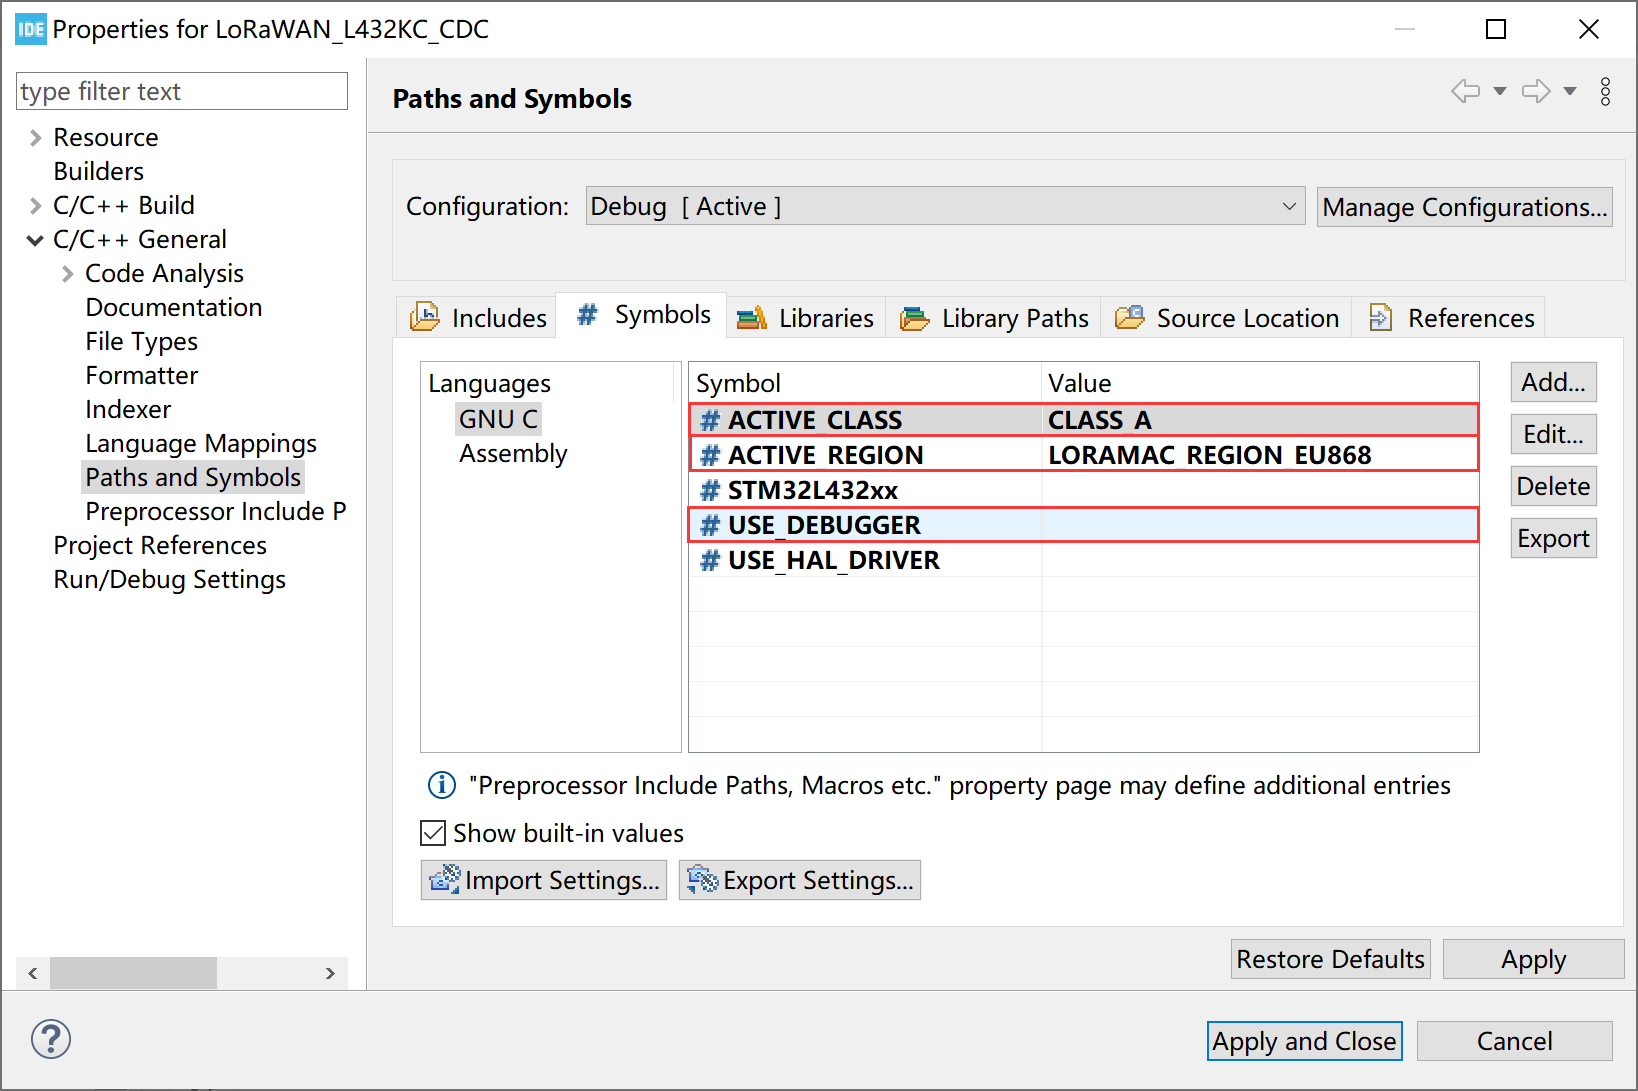
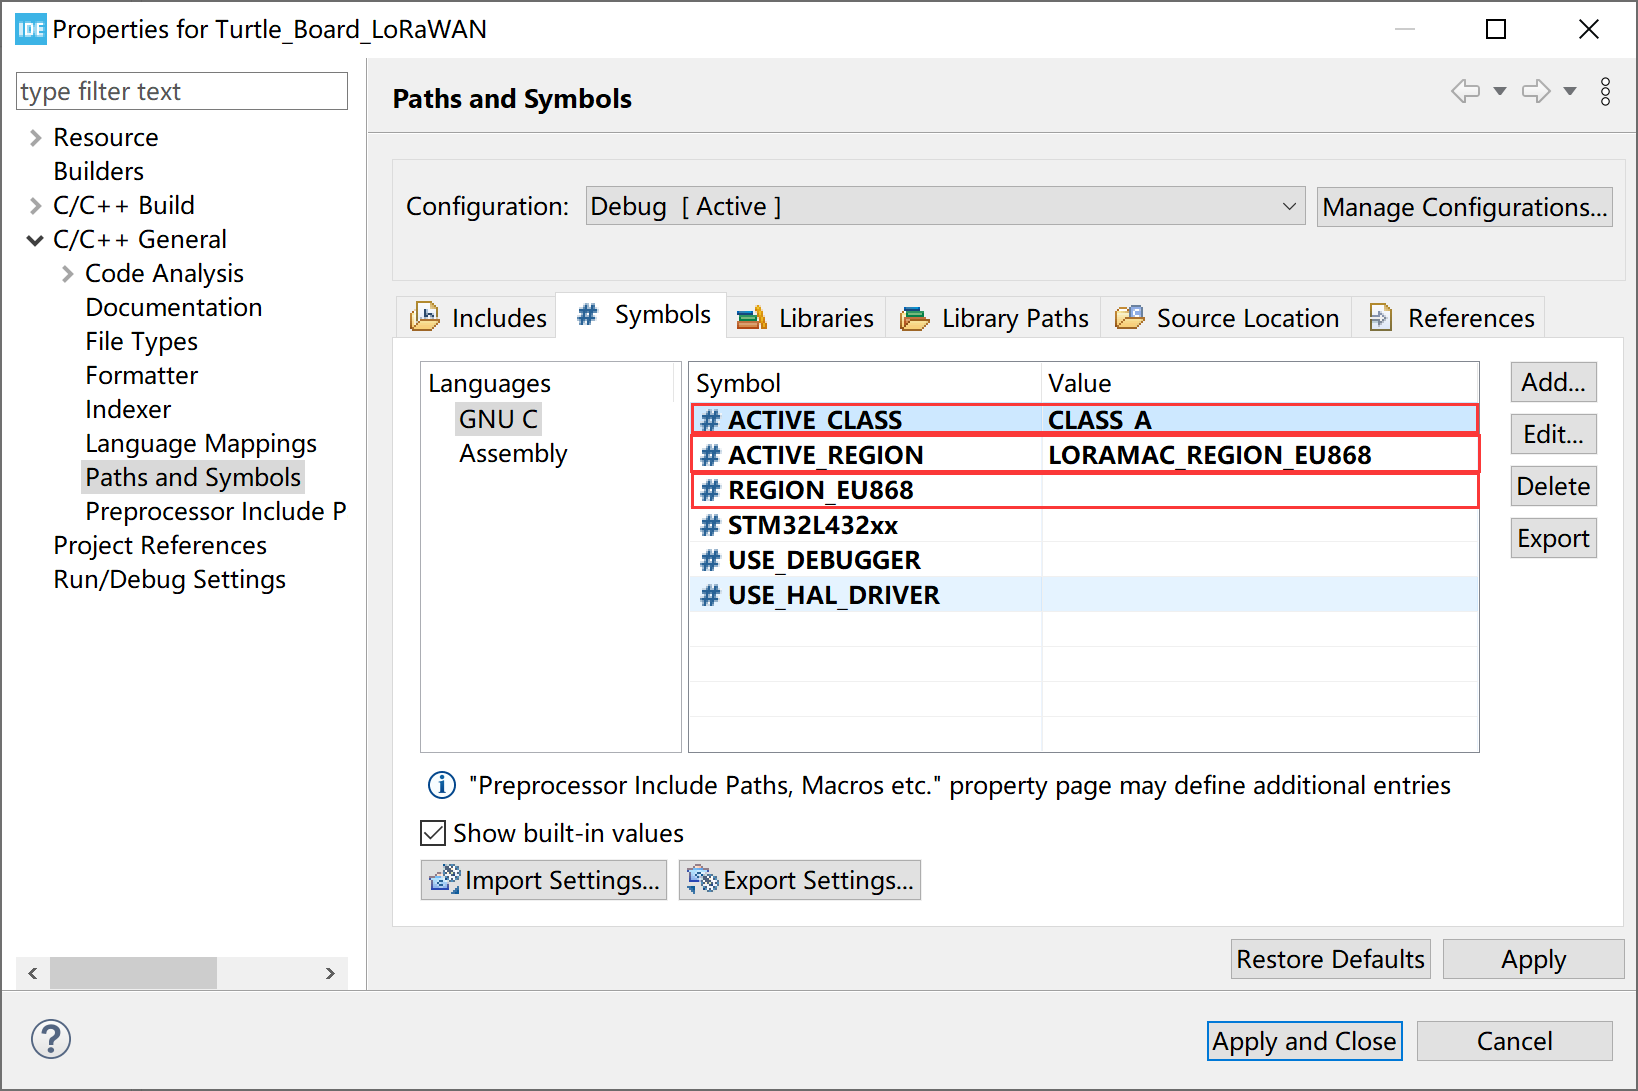
fix STM32 LoRaWAN config parameters

Changed region(s): [[0.4048, 0.3428, 0.9029, 0.561], [0.1245, 0.0, 0.3114, 0.0623]]

diff --git a/en/source/stm32/lorawan/config_parameter.md b/en/source/stm32/lorawan/config_parameter.md
@@ -85,6 +85,9 @@ The first time you run, may have the following dialog box will, click Yes and th
 
      `LORAMAC_REGION_AS923_AS2`
 
+   - `REGION_EU868`
+     Set to the frequency band corresponding to `ACTIVE_REGION`
+
    - `USE_DEBUGGER` 
 
      If define `USE_DEBUGGER` , default serial port(PA9-TX, PA10-RX) can print debugging information.
